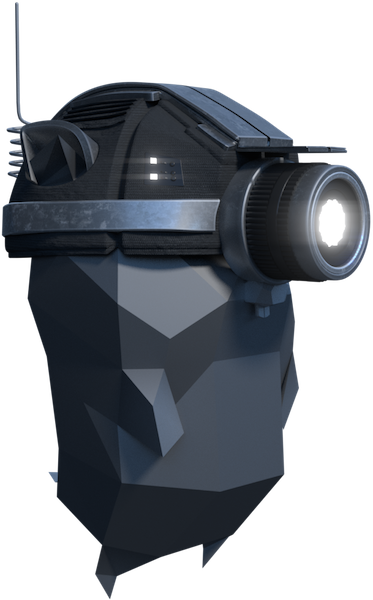
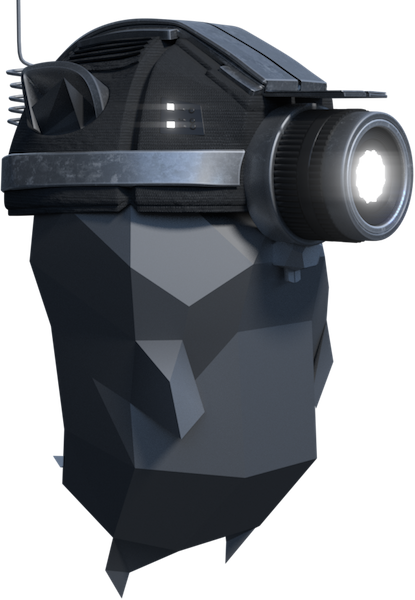
fix symmetry on the index page

diff --git a/index.html b/index.html
@@ -44,13 +44,13 @@
       </div>
     </nav>
 
-    <div class="jumbotron" style="padding-top: 16px; padding-bottom: 0;">
+    <div class="jumbotron">
       <div class="container mascot">
         <div class="row">
           <div class="col-lg-2">
           </div>
-          <div class="col-lg-8" style="text-align: center">
-            <h1 style="padding-top: 32px;">Go Ethereum</h1>
+          <div class="col-lg-8">
+            <h1>Go Ethereum</h1>
             <h2>Official Go implementation of the Ethereum protocol</h2>
             <br/>
             <a href="https://github.com/ethereum/go-ethereum" target="_blank" class="btn btn-success" style="margin: 4px;"><i class="fa fa-github" aria-hidden="true"></i> View on GitHub</a>
@@ -61,7 +61,7 @@
     </div>
 
     <div class="container mascot-mobile">
-      <img src="./static/images/mascot.png" height="300px" />
+      <img src="./static/images/mascot.png" height="200px" />
     </div>
 
     <div class="container marketing">
@@ -77,10 +77,13 @@
       </div>
       <hr/>
       <div class="row featurette">
-        <div class="col-md-7">
+        <div class="col-md-7 col-md-push-5">
           <h2 class="featurette-heading">What is Go Ethereum?</h2>
           <p class="lead">Go Ethereum is one of the three original implementations (along with C++ and Python) of the Ethereum protocol. It is written in Go, fully open source and licensed under the GNU LGPL v3.</p>
           <p class="lead">See <a href="https://github.com/ethereum/go-ethereum" target="_blank">our repository</a> and <a href="./downloads">downloads section</a> for the code!</p>
+        </div>
+        <div class="col-md-5 col-md-pull-7 hide-on-small-screen">
+          <img class="featurette-image center-block" src="./static/images/mascot.png" height="300px">
         </div>
       </div>
       <hr/>

diff --git a/static/styles/custom/home.css b/static/styles/custom/home.css
@@ -1,21 +1,16 @@
-.jumbotron .mascot {
-  background-size: auto 300px;
-  background-repeat: no-repeat;
-  background-position: 0 -30px;
-  height: 280px;
+.jumbotron {
+  text-align: center;
+  padding: 20pt 0;
 }
 
 .jumbotron h1 {
   font-size: 56px;
   font-weight: bold;
   margin-top: 0;
-  margin-bottom: 12px;
 }
 
 .jumbotron h2 {
   font-size: 28px;
-  max-width: 500px;
-  margin: auto;
 }
 
 .mascot-mobile {
@@ -31,9 +26,6 @@
 }
 
 @media (min-width: 768px) {
-  .jumbotron .mascot {
-    background-image: url('../../images/mascot.png');
-  }
   .mascot-mobile {
     display: none;
   }
